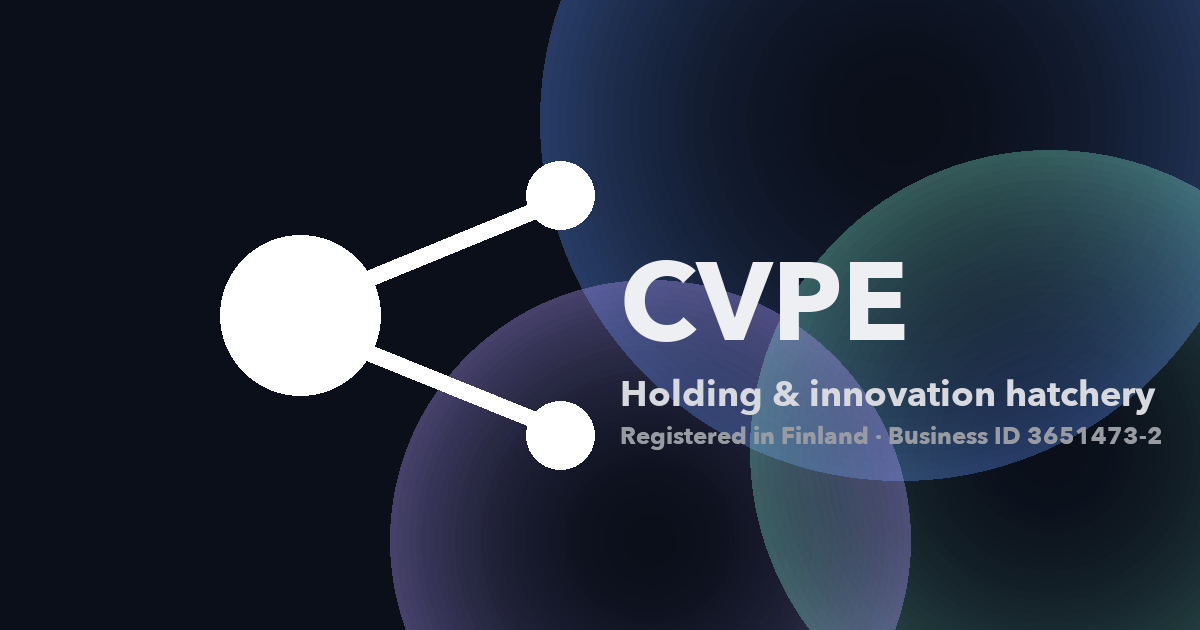
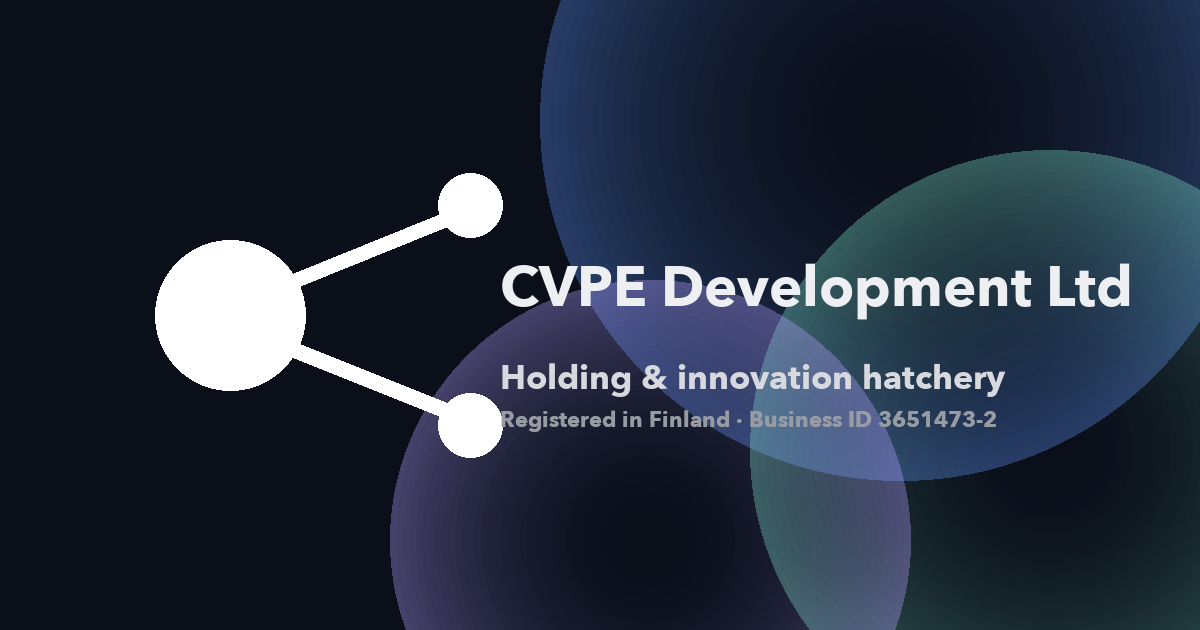
Rename company to CVPE Development Ltd across site and OG image.
Generated with [Devin](https://devin.ai)

Changed region(s): [[0.1233, 0.2413, 0.9867, 0.754], [0.4008, 0.3921, 0.9558, 0.5429]]

diff --git a/index.html b/index.html
@@ -3,29 +3,29 @@
 <head>
 <meta charset="UTF-8">
 <meta name="viewport" content="width=device-width, initial-scale=1.0">
-<title>CVPE — Registered Finnish holding entity</title>
-<meta name="description" content="CVPE is a Finland-registered holding and innovation hatchery, domiciled in Lohja. Business ID 3651473-2.">
+<title>CVPE Development Ltd — Registered Finnish holding entity</title>
+<meta name="description" content="CVPE Development Ltd is a Finland-registered holding and innovation hatchery, domiciled in Lohja. Business ID 3651473-2.">
 <link rel="icon" type="image/svg+xml" href="favicon.svg">
 <link rel="canonical" href="https://cvpe.dev/">
 <meta name="robots" content="index, follow, max-snippet:-1, max-image-preview:large, max-video-preview:-1">
-<meta name="author" content="CVPE">
+<meta name="author" content="CVPE Development Ltd">
 <meta name="theme-color" content="#0a0f1a">
 <meta name="color-scheme" content="dark light">
 <meta property="og:locale" content="en_US">
 <meta property="og:type" content="website">
-<meta property="og:title" content="CVPE — Registered Finnish holding entity">
-<meta property="og:description" content="CVPE is a Finland-registered holding and innovation hatchery, domiciled in Lohja. Business ID 3651473-2.">
+<meta property="og:title" content="CVPE Development Ltd — Registered Finnish holding entity">
+<meta property="og:description" content="CVPE Development Ltd is a Finland-registered holding and innovation hatchery, domiciled in Lohja. Business ID 3651473-2.">
 <meta property="og:url" content="https://cvpe.dev/">
-<meta property="og:site_name" content="CVPE">
+<meta property="og:site_name" content="CVPE Development Ltd">
 <meta property="og:image" content="https://cvpe.dev/og.png">
 <meta property="og:image:width" content="1200">
 <meta property="og:image:height" content="630">
-<meta property="og:image:alt" content="CVPE — Holding and innovation hatchery, registered in Finland.">
+<meta property="og:image:alt" content="CVPE Development Ltd — Holding and innovation hatchery, registered in Finland.">
 <meta name="twitter:card" content="summary_large_image">
-<meta name="twitter:title" content="CVPE — Registered Finnish holding entity">
-<meta name="twitter:description" content="CVPE is a Finland-registered holding and innovation hatchery, domiciled in Lohja. Business ID 3651473-2.">
+<meta name="twitter:title" content="CVPE Development Ltd — Registered Finnish holding entity">
+<meta name="twitter:description" content="CVPE Development Ltd is a Finland-registered holding and innovation hatchery, domiciled in Lohja. Business ID 3651473-2.">
 <meta name="twitter:image" content="https://cvpe.dev/og.png">
-<meta name="twitter:image:alt" content="CVPE — Holding and innovation hatchery, registered in Finland.">
+<meta name="twitter:image:alt" content="CVPE Development Ltd — Holding and innovation hatchery, registered in Finland.">
 <link rel="preconnect" href="https://fonts.googleapis.com">
 <link rel="preconnect" href="https://fonts.gstatic.com" crossorigin>
 <link href="https://fonts.googleapis.com/css2?family=Space+Grotesk:wght@400;500;600;700&family=Inter:wght@400;500;600&display=swap" rel="stylesheet">
@@ -493,9 +493,9 @@
     {
       "@type": "Organization",
       "@id": "https://cvpe.dev/#organization",
-      "name": "CVPE",
-      "alternateName": "CVPE — Finnish legal entity",
-      "description": "CVPE is a Finland-registered holding and innovation hatchery, domiciled in Lohja. Business ID 3651473-2.",
+      "name": "CVPE Development Ltd",
+      "alternateName": "CVPE",
+      "description": "CVPE Development Ltd is a Finland-registered holding and innovation hatchery, domiciled in Lohja. Business ID 3651473-2.",
       "url": "https://cvpe.dev/",
       "logo": "https://cvpe.dev/favicon.svg",
       "identifier": "3651473-2",
@@ -509,8 +509,8 @@
     {
       "@type": "WebSite",
       "@id": "https://cvpe.dev/#website",
-      "name": "CVPE",
-      "description": "CVPE is a Finland-registered holding and innovation hatchery, domiciled in Lohja. Business ID 3651473-2.",
+      "name": "CVPE Development Ltd",
+      "description": "CVPE Development Ltd is a Finland-registered holding and innovation hatchery, domiciled in Lohja. Business ID 3651473-2.",
       "url": "https://cvpe.dev/",
       "publisher": { "@id": "https://cvpe.dev/#organization" }
     }
@@ -538,7 +538,7 @@
           </defs>
         </svg>
       </span>
-      CVPE
+      CVPE Development Ltd
     </div>
     <nav class="nav-links">
       <a href="#about">About</a>
@@ -560,7 +560,7 @@
         Registered in Finland · Business ID 3651473-2
       </div>
       <h1>A structured home for ventures worth building properly.</h1>
-      <p class="hero-sub">CVPE is a holding and innovation hatchery. We give early-stage ideas the legal, financial, and operational structure of an established company, from day one.</p>
+      <p class="hero-sub">CVPE Development Ltd is a holding and innovation hatchery. We give early-stage ideas the legal, financial, and operational structure of an established company, from day one.</p>
       <div class="hero-actions">
         <a class="btn-primary" href="#projects">View our projects</a>
         <a class="btn-secondary" href="#legal">Verify our registration</a>
@@ -602,8 +602,8 @@
       <h2>One legal structure. Many ventures.</h2>
     </div>
     <div class="about-copy">
-      <p>CVPE is a Finland-registered holding and innovation hatchery. Rather than operating a single business, we identify, structure, and manage a portfolio of independent ventures under one legal entity — providing the governance, capital allocation, and operational discipline each project needs to grow, without requiring every new idea to incorporate on its own from day one.</p>
-      <p>Where a conventional holding company sits above already-finished businesses, CVPE gets involved earlier: testing concepts under controlled conditions, and either spinning successful ones out as independent companies or continuing to hold and steward them long-term. The entity itself is domiciled in Lohja, Finland, and operates under Finnish corporate law, with registration that any partner, supplier, or institution can independently verify through the Finnish Patent and Registration Office's business information system.</p>
+      <p>CVPE Development Ltd is a Finland-registered holding and innovation hatchery. Rather than operating a single business, we identify, structure, and manage a portfolio of independent ventures under one legal entity — providing the governance, capital allocation, and operational discipline each project needs to grow, without requiring every new idea to incorporate on its own from day one.</p>
+      <p>Where a conventional holding company sits above already-finished businesses, CVPE Development Ltd gets involved earlier: testing concepts under controlled conditions, and either spinning successful ones out as independent companies or continuing to hold and steward them long-term. The entity itself is domiciled in Lohja, Finland, and operates under Finnish corporate law, with registration that any partner, supplier, or institution can independently verify through the Finnish Patent and Registration Office's business information system.</p>
     </div>
   </div>
 </section>
@@ -624,7 +624,7 @@
       <div class="proj-body">
         <p>Marita is a deterministic, physics-first space simulation where players don't fly ships directly — they write the software that flies them. Built on real Newtonian mechanics, light-speed-delayed sensor data, and an AI-run in-world economy, it's designed as a demanding sandbox for autonomous agents as much as a game, currently in a pre-Beta cohort with an open reference client on GitHub.</p>
         <a class="proj-link" href="https://marita-universe.com/" target="_blank" rel="noopener">Visit marita-universe.com ↗</a>
-        <span class="proj-entity">Operated under CVPE · Business ID 3651473-2</span>
+        <span class="proj-entity">Operated under CVPE Development Ltd · Business ID 3651473-2</span>
       </div>
     </div>
     <div class="proj-row">
@@ -633,7 +633,7 @@
         <div class="proj-name" style="margin-bottom:6px;">Kotitoimitus.com</div>
         <p>Kotitoimitus.com is a B2B compliance and logistics service preparing Finnish and EU retailers, importers, and delivery operators for the home delivery and remote sale of alcohol under Finland's amended Alcohol Act. It handles the practical mechanics of compliance — delivery permits, delivery passes, age verification at purchase and handover, and cross-border remote sales support — so operators can launch within the law rather than around it.</p>
         <a class="proj-link" href="https://kotitoimitus.com/" target="_blank" rel="noopener">Visit kotitoimitus.com ↗</a>
-        <span class="proj-entity">Operated under CVPE · Business ID 3651473-2</span>
+        <span class="proj-entity">Operated under CVPE Development Ltd · Business ID 3651473-2</span>
       </div>
     </div>
     <div class="proj-row">
@@ -642,7 +642,7 @@
         <div class="proj-name" style="margin-bottom:6px;">Kotikreikasta.com</div>
         <p>Kotikreikasta.com is a Finnish-language real estate service that helps Finns buy property in Greece, guiding the full process from initial search through notarised signing, with area guides covering regions such as Crete, Corfu, and the Peloponnese. It backs each sale with a year of concierge support after closing, aimed at removing the friction — language, legal process, an unfamiliar market — that typically makes a cross-border property purchase feel riskier than it needs to be.</p>
         <a class="proj-link" href="https://kotikreikasta.com/" target="_blank" rel="noopener">Visit kotikreikasta.com ↗</a>
-        <span class="proj-entity">Operated under CVPE · Business ID 3651473-2</span>
+        <span class="proj-entity">Operated under CVPE Development Ltd · Business ID 3651473-2</span>
       </div>
     </div>
     <div class="proj-row">
@@ -651,7 +651,7 @@
         <div class="proj-name" style="margin-bottom:6px;">Old Continent Atelier</div>
         <p>Old Continent Atelier is a handcrafted leather goods brand producing handbags, laptop bags, and beauty cases from full-grain, vegetable-tanned European leather, saddle-stitched by named artisans in named workshops across Europe. Its structure is provenance itself: every piece ships with the specific tannery and maker behind it, rather than a generic "made in Europe" label. The collection ships across Europe.</p>
         <a class="proj-link" href="https://ocatelier.com/" target="_blank" rel="noopener">Visit ocatelier.com ↗</a>
-        <span class="proj-entity">Operated under CVPE · Business ID 3651473-2</span>
+        <span class="proj-entity">Operated under CVPE Development Ltd · Business ID 3651473-2</span>
       </div>
     </div>
   </div>
@@ -665,7 +665,7 @@
       </div>
       <div>
         <h3>Governance first</h3>
-        <p>Every venture under CVPE operates against a shared standard of financial reporting, contractual discipline, and legal accountability — set at the holding level and enforced consistently underneath it.</p>
+        <p>Every venture under CVPE Development Ltd operates against a shared standard of financial reporting, contractual discipline, and legal accountability — set at the holding level and enforced consistently underneath it.</p>
       </div>
     </div>
     <div class="p-row">
@@ -679,7 +679,7 @@
       <div></div>
       <div>
         <h3>Built to last, or built to leave</h3>
-        <p>Some ventures are designed to be spun out as independent companies once they're ready. Others remain under CVPE for the long term. Either path is planned for from the start, not decided under pressure.</p>
+        <p>Some ventures are designed to be spun out as independent companies once they're ready. Others remain under CVPE Development Ltd for the long term. Either path is planned for from the start, not decided under pressure.</p>
       </div>
     </div>
   </div>
@@ -690,7 +690,7 @@
     <div class="section-intro">
       <div class="section-label">Technology support</div>
       <h2>Also built with our support, held elsewhere.</h2>
-      <p>CVPE contributes technology to a small number of projects outside its own portfolio — built or supported by us, but owned and managed by other legal entities.</p>
+      <p>CVPE Development Ltd contributes technology to a small number of projects outside its own portfolio — built or supported by us, but owned and managed by other legal entities.</p>
     </div>
     <div class="tech-grid">
       <div class="tech-card">
@@ -713,7 +713,7 @@
   <div class="wrap">
     <div class="plaque">
       <div class="plaque-eyebrow">Registered entity</div>
-      <h2>CVPE — Finnish legal entity</h2>
+      <h2>CVPE Development Ltd — Finnish legal entity</h2>
       <dl class="plaque-grid">
         <dt>Business ID</dt>
         <dd>3651473-2</dd>
@@ -737,7 +737,7 @@
 <footer>
   <div class="wrap footer-inner">
     <div class="footer-left">
-      <div class="fname">CVPE</div>
+      <div class="fname">CVPE Development Ltd</div>
       Lohja, Finland · Business ID 3651473-2
     </div>
     <div class="footer-right">
